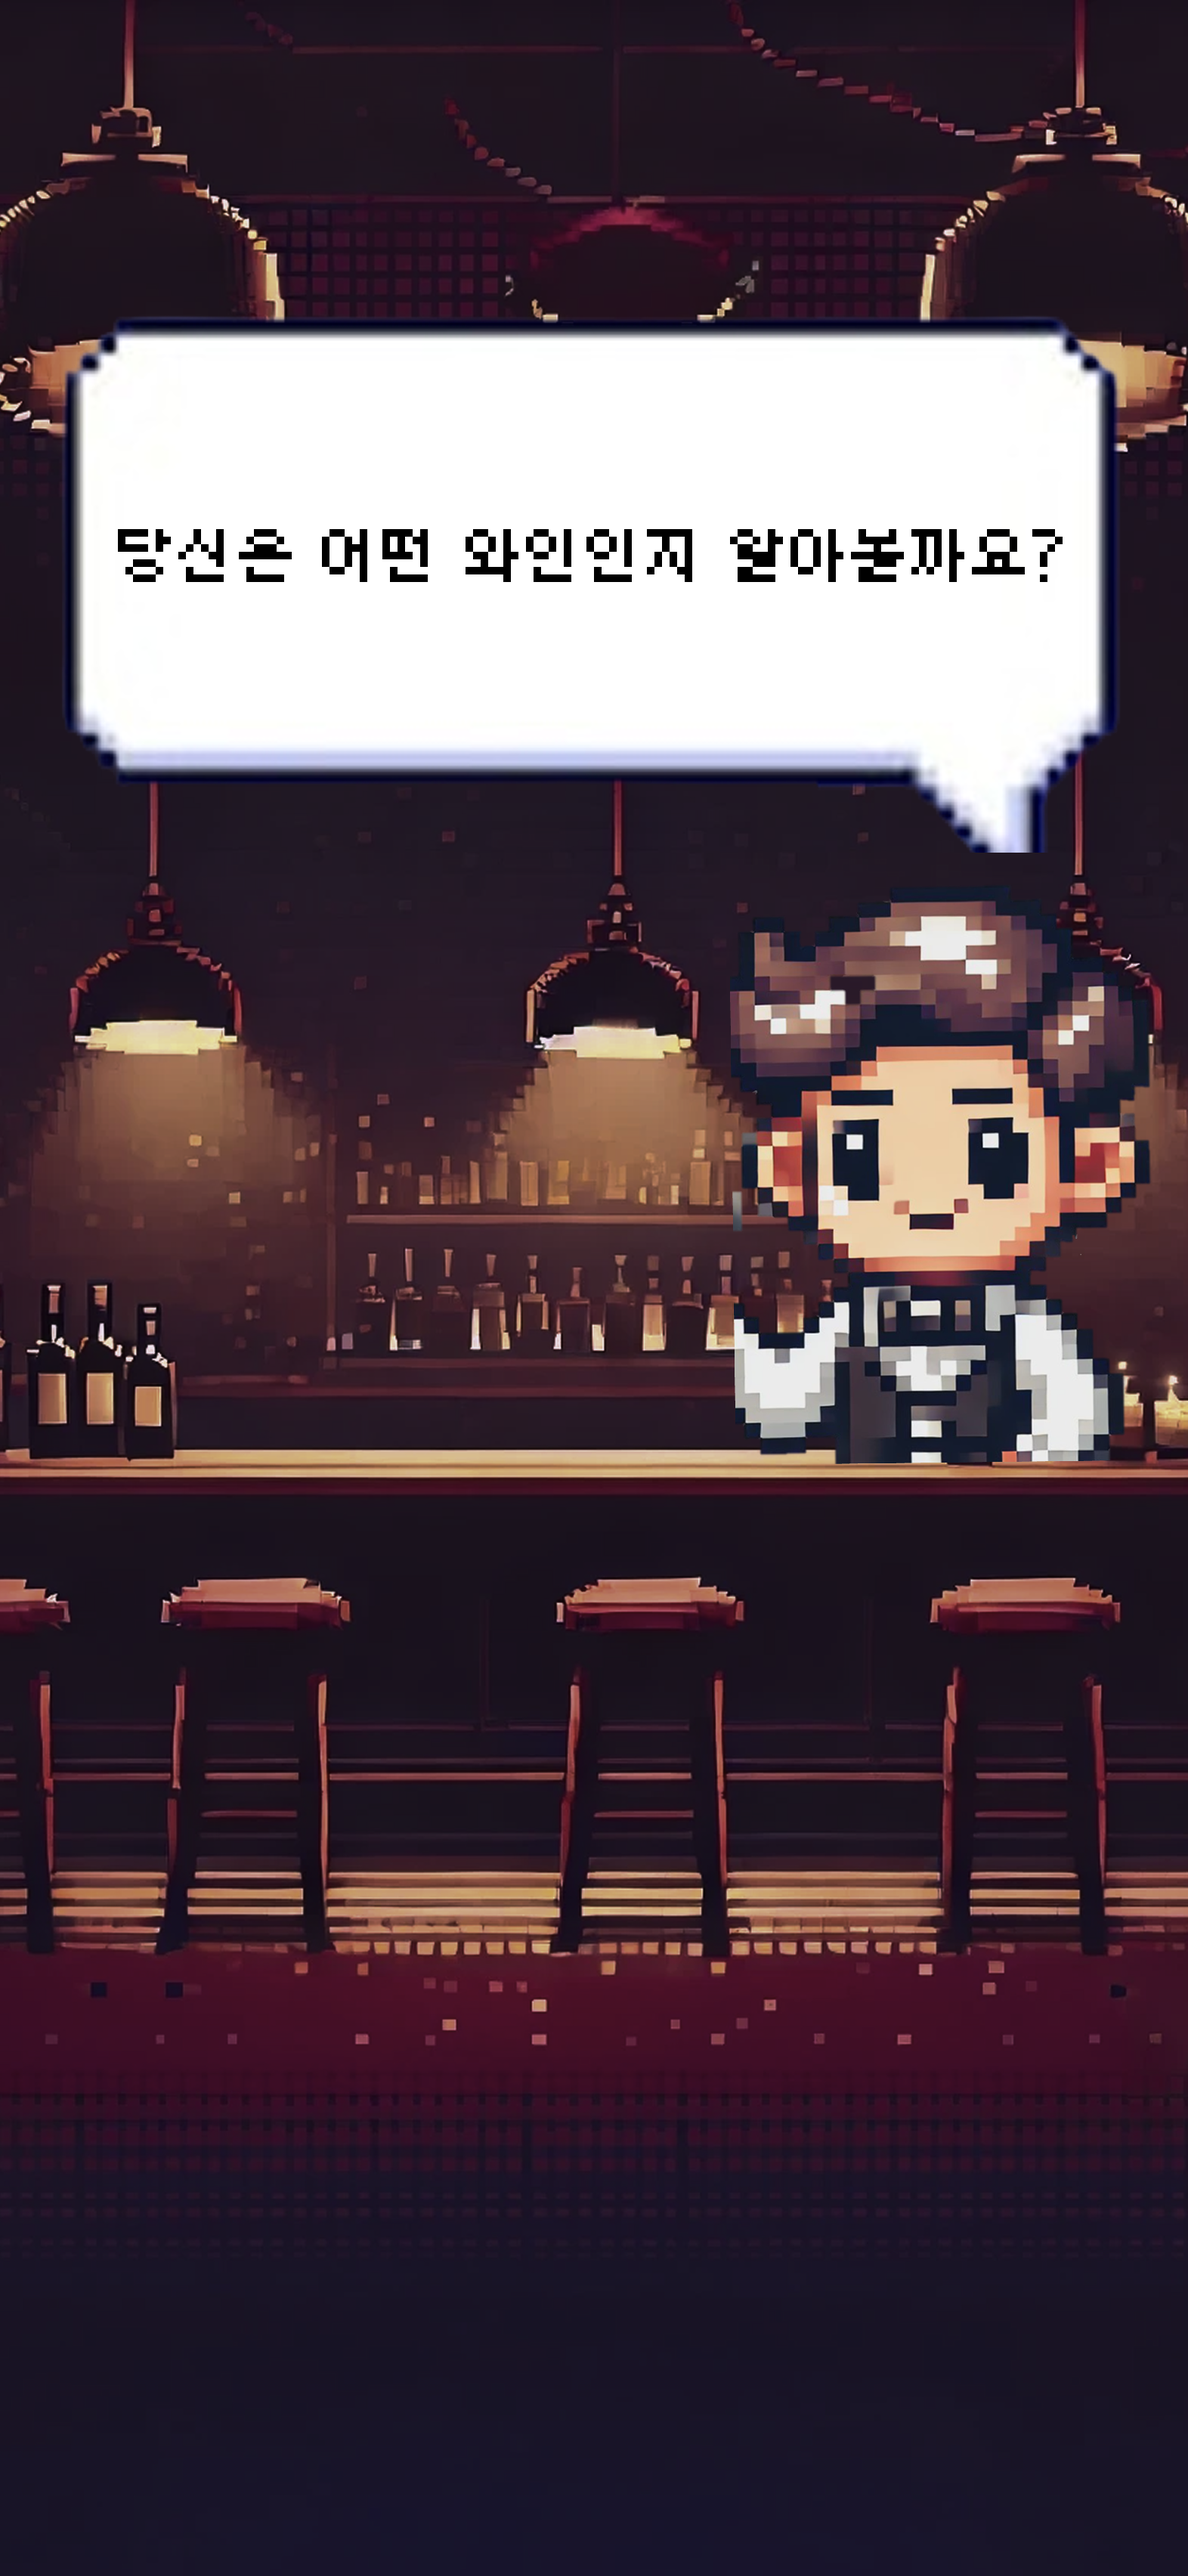
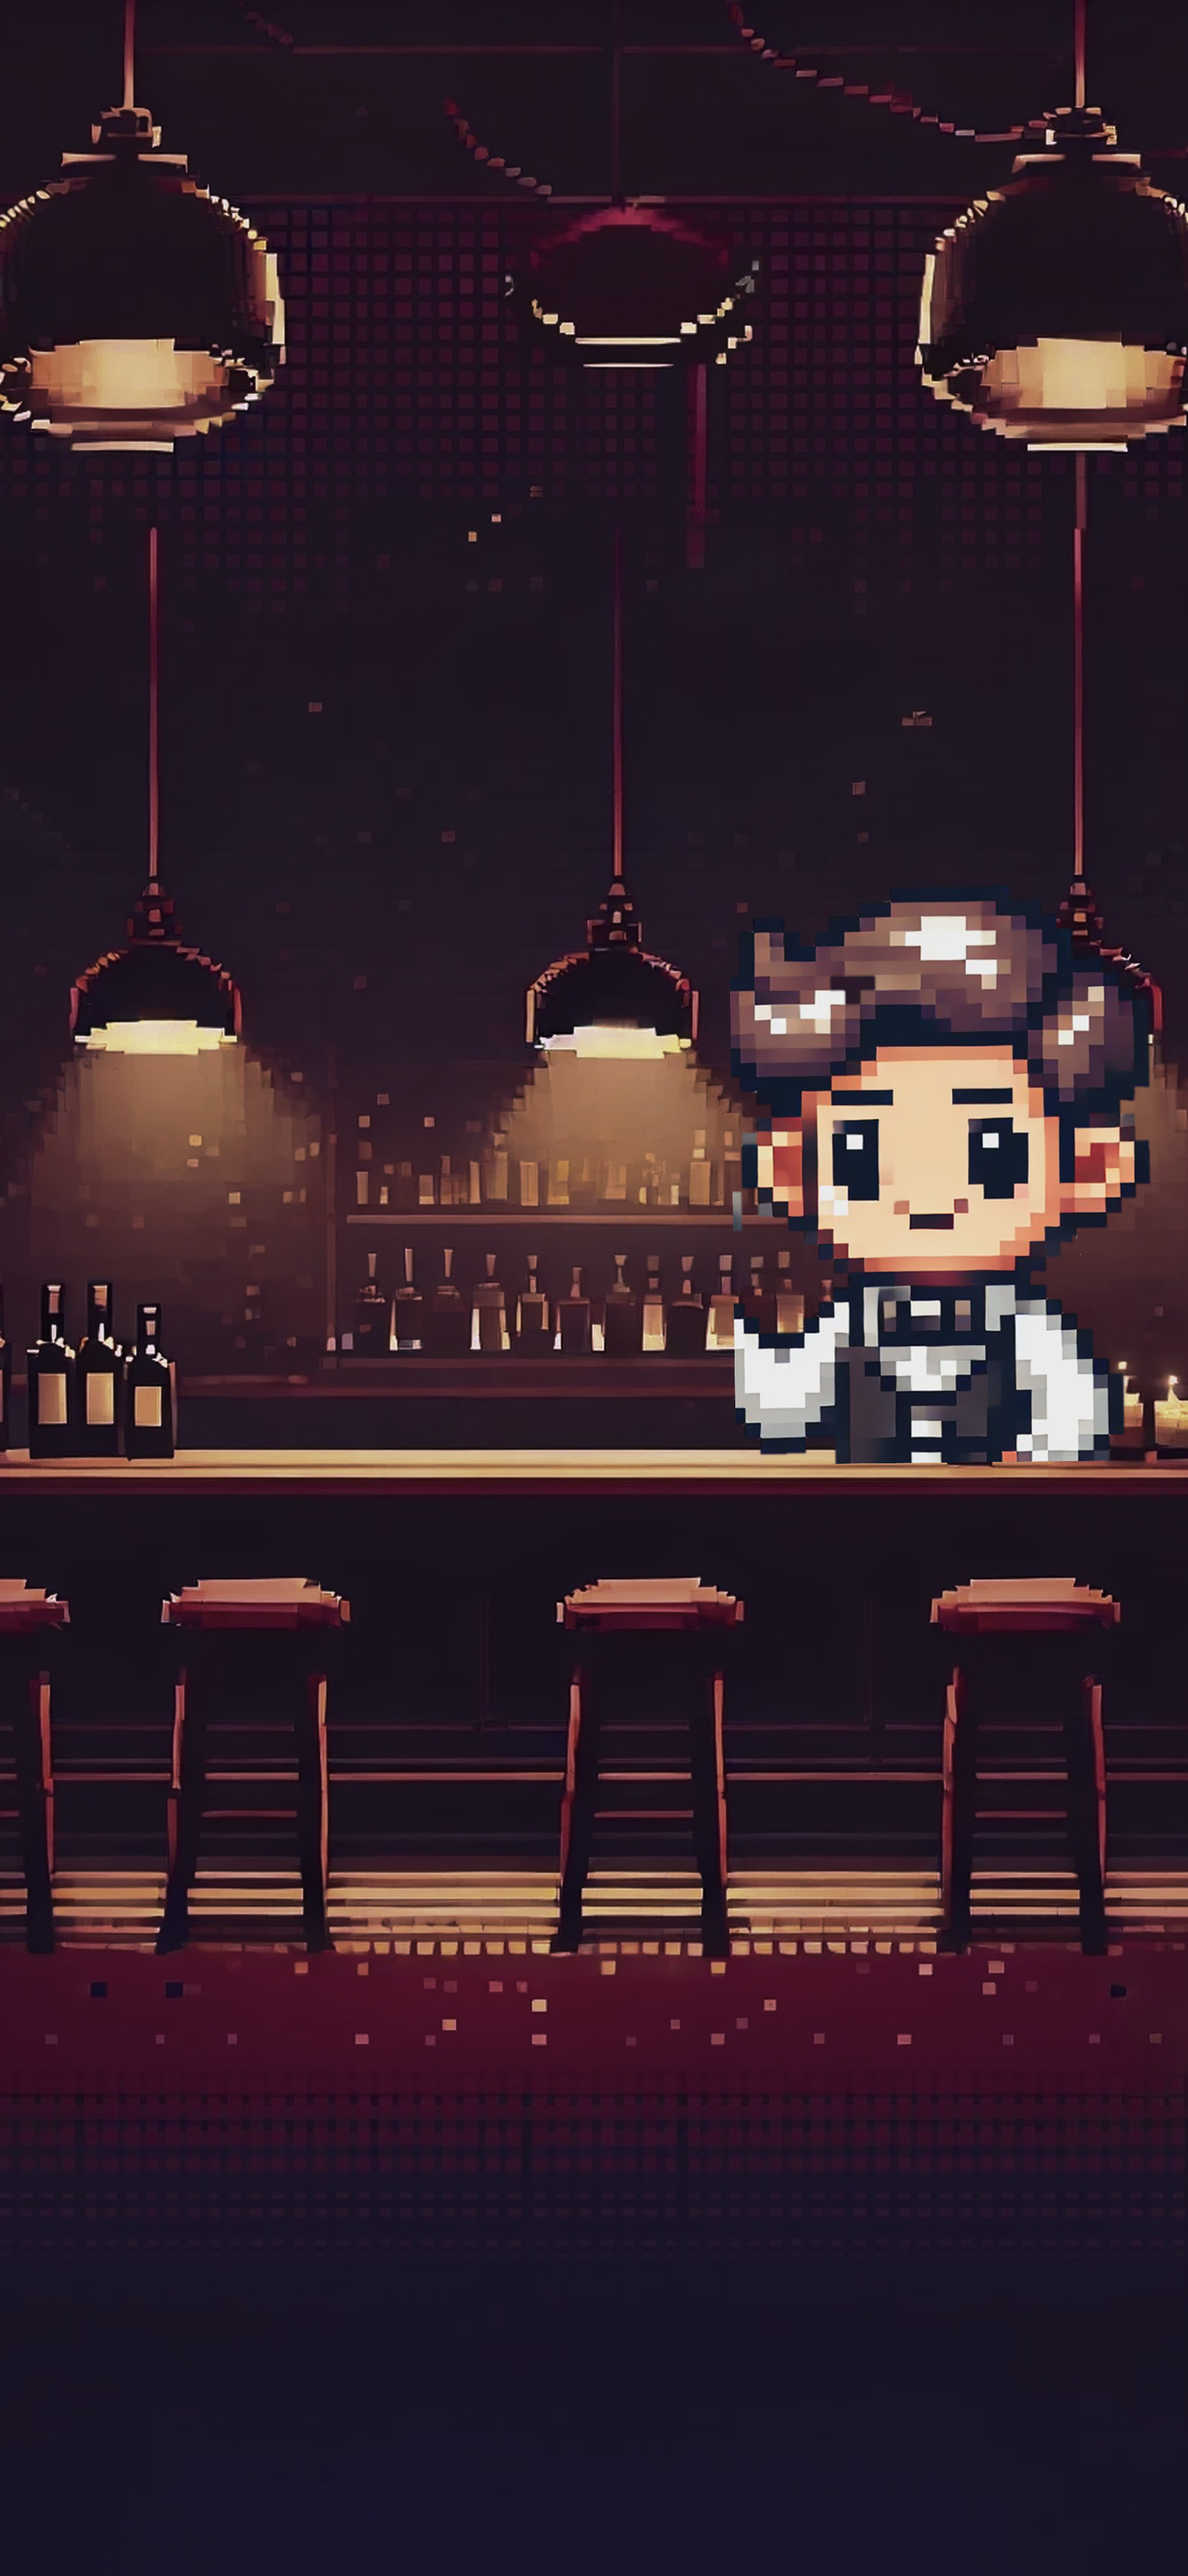
[#S12P21B202-99] feature : MBTI question 완료료

Changed region(s): [[0.0312, 0.1244, 0.9663, 0.3421]]

diff --git a/frontend/winedining/src/data/MBTIQuestion.ts b/frontend/winedining/src/data/MBTIQuestion.ts
@@ -1,0 +1,111 @@
+interface QuestionOption {
+  option: string;
+  personality: string;
+}
+
+interface Question {
+  id: number;
+  question: string;
+  options: QuestionOption[];
+}
+
+const questions: Question[] = [
+  {
+    id: 1,
+    question: "저녁에 와인을 고를 때, 어떤 상황을 더 중시하나요?",
+    options: [
+      { option: "A. 오늘의 기분과 와인 맛이 잘 맞는지 고려한다.", personality: "I (내향)" },
+      { option: "B. 내가 먹을 음식에 딱 맞는 와인을 선택한다.", personality: "E (외향)" },
+    ],
+  },
+  {
+    id: 2,
+    question: "모임에서 와인을 마실 때, 당신은 어떻게 마시나요?",
+    options: [
+      { option: "A. 천천히 한 모금씩 음미하며 와인의 맛을 즐긴다.", personality: "I (내향)" },
+      { option: "B. 분위기 좋게 빠르게 한 잔씩 마시며 즐긴다.", personality: "E (외향)" },
+    ],
+  },
+  {
+    id: 3,
+    question: "식사 중, 와인 맛을 제대로 즐기기 위해 가장 중요한 건 무엇인가요?",
+    options: [
+      { option: "A. 음식과 와인이 잘 어울리는지, 조화가 중요하다.", personality: "S (감각)" },
+      { option: "B. 와인 자체의 맛이 뛰어나야 한다. 음식은 와인의 맛을 돋보이게 한다.", personality: "N (직관)" },
+    ],
+  },
+  {
+    id: 4,
+    question: "와인을 고른 후, 어떻게 보관할까요?",
+    options: [
+      { option: "A. 와인이 최고로 맛있을 때를 위해 적절한 온도에 보관한다.", personality: "J (판단)" },
+      { option: "B. 그날 당장 마실 거면 적당히 보관해 두고, 친구들과 한 번에 마신다.", personality: "P (인식)" },
+    ],
+  },
+  {
+    id: 5,
+    question: "친구와 함께 와인을 마실 때, 어떤 스타일인가요?",
+    options: [
+      { option: "A. 와인의 맛을 음미하고, 차분한 대화를 나누며 마신다.", personality: "I (내향)" },
+      { option: "B. 분위기를 띄우고, 신나게 대화를 주도하며 마신다.", personality: "E (외향)" },
+    ],
+  },
+  {
+    id: 6,
+    question: "와인을 마신 후, 그 맛을 오래 기억하려면 어떻게 해야 할까요?",
+    options: [
+      { option: "A. 와인을 천천히 음미하며 향과 맛을 즐긴다.", personality: "S (감각)" },
+      { option: "B. 친구들과 그 날의 경험을 이야기하면서 기억을 강화한다.", personality: "N (직관)" },
+    ],
+  },
+  {
+    id: 7,
+    question: "다음 날 아침, 와인을 마신 후 몸 상태가 별로일 때, 어떻게 대처하나요?",
+    options: [
+      { option: "A. 과일 주스나 물을 많이 마시며 빠르게 회복하려 한다.", personality: "S (감각)" },
+      { option: "B. 와인의 맛을 떠올리며 조금 더 여유를 둔다.", personality: "N (직관)" },
+    ],
+  },
+  {
+    id: 8,
+    question: "와인을 마시고, 당신은 어떤 기분이 들까요?",
+    options: [
+      { option: "A. 차분하고 여유로운 기분이 든다.", personality: "I (내향)" },
+      { option: "B. 활기차고 긍정적인 기분이 든다.", personality: "E (외향)" },
+    ],
+  },
+  {
+    id: 9,
+    question: "다음 날 아침, 와인을 마신 후 가장 기억에 남는 것은 무엇인가요?",
+    options: [
+      { option: "A. 와인 자체의 풍미와 그 날의 기분.", personality: "S (감각)" },
+      { option: "B. 와인과 함께한 사람들과 분위기.", personality: "N (직관)" },
+    ],
+  },
+  {
+    id: 10,
+    question: "와인을 마시기 전에, 당신은 어떤 선택을 할까요?",
+    options: [
+      { option: "A. 와인의 역사나 제조 과정을 알아보고 고른다.", personality: "J (판단)" },
+      { option: "B. 즉흥적으로 오늘의 기분에 맞는 와인을 고른다.", personality: "P (인식)" },
+    ],
+  },
+  {
+    id: 11,
+    question: "와인을 마시고 나서, 당신은 어떤 경험을 더 하고 싶나요?",
+    options: [
+      { option: "A. 와인과 함께 여유로운 시간을 보내며 그 맛을 음미한다.", personality: "I (내향)" },
+      { option: "B. 와인과 함께 분위기를 띄우고 활동적인 시간을 보낸다.", personality: "E (외향)" },
+    ],
+  },
+  {
+    id: 12,
+    question: "와인을 마신 후, 어떤 행동을 더 즐기고 싶은가요?",
+    options: [
+      { option: "A. 혼자서 와인의 맛을 음미하며 조용히 시간을 보낸다.", personality: "I (내향)" },
+      { option: "B. 친구들과 함께 와인에 대해 이야기하며 즐거운 시간을 보낸다.", personality: "E (외향)" },
+    ],
+  }
+];
+
+export default questions;

diff --git a/frontend/winedining/src/pages/MBTITest.tsx b/frontend/winedining/src/pages/MBTITest.tsx
@@ -1,0 +1,164 @@
+import React, {useState, useEffect} from "react";
+import { useNavigate } from "react-router-dom";
+import BackButton from "../components/BackButton";
+import MBTIBackground from "../assets/images/background/wineMbti.png";
+import questions from "../data/MBTIQuestion";
+import speechbubble from "../assets/icons/speechbubble.png";
+
+
+
+const MBTITest = () => {
+  const navigate = useNavigate();
+  const [currentQuestionIndex, setCurrentQuestionIndex] = useState(0);
+  const [selectedOption, setSelectedOption] = useState<string | null>(null);
+  const [progress, setProgress] = useState(0);
+
+
+  useEffect(() => {
+    // 진행률 계산
+    setProgress(((currentQuestionIndex + 1) / questions.length) * 100);
+  }, [currentQuestionIndex]);
+
+  const handleOptionSelect = (option: string) => {
+    setSelectedOption(option);
+    setTimeout(() => {
+      if (currentQuestionIndex < questions.length - 1) {
+        setCurrentQuestionIndex(currentQuestionIndex + 1);
+      } else {
+        // 마지막 질문에 도달하면 결과 페이지로 이동
+        navigate("/MBTIresults");
+      }
+    }, 500); // 선택 후 약간의 딜레이 후 다음 질문으로 이동
+  };
+
+  const currentQuestion = questions[currentQuestionIndex];
+
+  return (
+    <div style={styles.container}>
+      <BackButton  onClick={() => navigate("/")}/>
+        <div style={styles.speechBubbleContainer}>
+          당신은 어떤 와인인가요?
+        </div>
+        <div style={styles.chatItself}>
+      <div style={styles.chatContainer}>
+        <div style={styles.questionContainer}>
+          <p style={styles.questionText}>Q. {currentQuestion.question}</p>
+        </div>
+
+        <div style={styles.optionsContainer}>
+          {currentQuestion.options.map((option, index) => (
+            <button
+              key={index}
+              style={styles.optionButton}
+              onClick={() => handleOptionSelect(option.option)} // 옵션 텍스트 선택
+            >
+              {option.option}
+            </button>
+          ))}
+        </div>
+      </div>
+
+        </div>
+
+      <div style={styles.progressContainer}>
+        <div style={styles.progressBar}>
+          <div
+            style={{
+              ...styles.progressFill,
+              width: `${progress}%`,
+            }}
+          ></div>
+        </div>
+        <p style={styles.progressText}>{currentQuestionIndex + 1} / {questions.length}</p>
+      </div>
+    </div>
+  );
+};
+
+const styles: { [key: string]: React.CSSProperties } = {
+  container: {
+    backgroundImage: `url(${MBTIBackground})`,
+    backgroundSize: "contain",
+    backgroundRepeat : "no-repeat",
+    width: "100vw",
+    height: "100vh",
+    color: "white",
+
+  },
+  chatItself : {
+    position : "absolute",
+    bottom : "100px",
+    display : "flex",
+    justifyContent : "center",
+  },
+  chatContainer: {
+    backgroundColor: "#21101B",
+    // borderRadius: "8px",
+    border : "solid 5px #D6BA91",
+    padding: "20px",
+    borderRadius: "10px",
+    width: "80%",
+  },
+  questionContainer: {
+    marginBottom: "20px",
+  },
+  questionText: {
+    fontSize: "18px",
+    lineHeight: "1.5",
+    wordWrap : "break-word",
+  },
+  optionsContainer: {
+    display: "flex",
+    flexDirection: "column",
+    gap: "10px",  // 옵션 간 간격을 줌
+  },
+  optionButton: {
+    backgroundColor: "transparent",
+    color: "white",
+    padding: "10px 20px",
+    fontFamily : "Galmuri9",
+    fontSize: "16px",
+    border: "none",
+    borderRadius: "8px",
+    cursor: "pointer",
+  },
+  progressContainer: {
+    position: "absolute",
+    bottom: "10px",
+    left: "10%",
+    right: "10%",
+    width: "80%",
+    textAlign: "right",
+  },
+  progressBar: {
+    width: "100%",
+    height: "10px",
+    // backgroundColor: "#ddd",
+    borderRadius: "5px",
+    overflow: "hidden",
+  },
+  progressFill: {
+    height: "100%",
+    backgroundColor: "#C9C0CA",
+    transition: "width 0.5s ease",
+  },
+  progressText: {
+    marginTop: "5px",
+    fontSize: "14px",
+  },
+  speechBubbleContainer: {
+    backgroundImage: `url(${speechbubble})`,
+    backgroundPosition: "center",
+    backgroundRepeat: "no-repeat",
+    display: "flex",
+    justifyContent: "center",
+    alignItems: "center",
+    height :"220px",
+    width : "100%",
+    color : "black",
+    fontFamily : "Galmuri7",
+    fontSize : "20px"
+  },
+};
+
+export default MBTITest;

diff --git a/frontend/winedining/src/routes/AppRouter.tsx b/frontend/winedining/src/routes/AppRouter.tsx
@@ -7,18 +7,20 @@ import WineList from "../pages/WineList";
 import WineSellerList from "../pages/WineSellerList";
 import WishList from "../pages/WishList";
 import ErrorPage from "../pages/ErrorPage";
-import LoginTest from "../pages/LoginTest";
+import MBTITest from "../pages/MBTITest";
 import Dictionary from "../pages/Dictionary";
 import RecommendTest from "../pages/RecommendTest";
 import RecommendFlow from "../pages/RecommendFlow";
 import DicLoading from "../pages/DicLoading";
+import MBTIResults from "../pages/MBTIResult";
 
 function AppRouter() {
   return (
     <BrowserRouter>
       <Routes>
         <Route path="/" element={<Login />} />
-        <Route path="/logintest" element={<LoginTest />}></Route>
+        <Route path="/MBTItest" element={<MBTITest />}></Route>
+        <Route path="//MBTIresults" element={<MBTIResults />}></Route>
         <Route path="/home" element={<Home />} />
         {/* <Route path="/test" element={<Test />} /> */}
         <Route path="/mypage" element={<MyPage />} />

diff --git a/frontend/winedining/src/pages/MBTIResult.tsx b/frontend/winedining/src/pages/MBTIResult.tsx
@@ -1,0 +1,25 @@
+import { useNavigate } from "react-router-dom";
+
+function MBTIResults() {
+  const navigate = useNavigate();
+
+  return (
+    <div style={styles.container}>
+        <div>결과 페이지</div>
+    </div>
+  );
+}
+
+const styles: { [key: string]: React.CSSProperties } = {
+  container: {
+    backgroundColor : "",
+    backgroundSize: "cover",
+    width: "100vw",
+    height: "100vh",
+    display : "flex",
+    justifyContent : "center",
+    alignItems:"center",
+  },
+};
+
+export default MBTIResults;

diff --git a/frontend/winedining/src/pages/Login.tsx b/frontend/winedining/src/pages/Login.tsx
@@ -44,7 +44,7 @@ function Login() {
       <button style={styles.button} onClick={() => navigate("/home")}>
         홈으로 이동하기
       </button>
-      <button style={styles.button} onClick={() => navigate("/logintest")}>
+      <button style={styles.button} onClick={() => navigate("/MBTITest")}>
         WINE MBTI TEST
       </button>
     </div>
